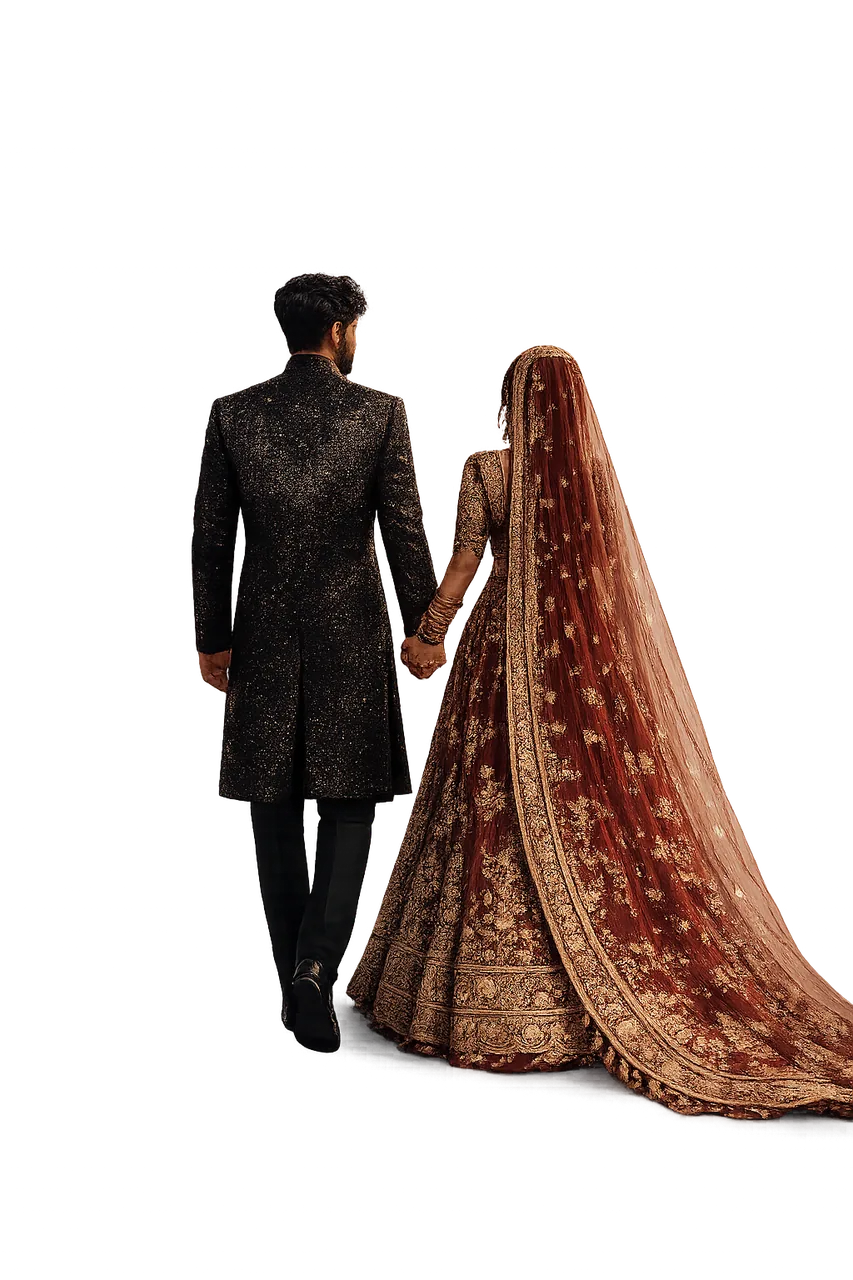
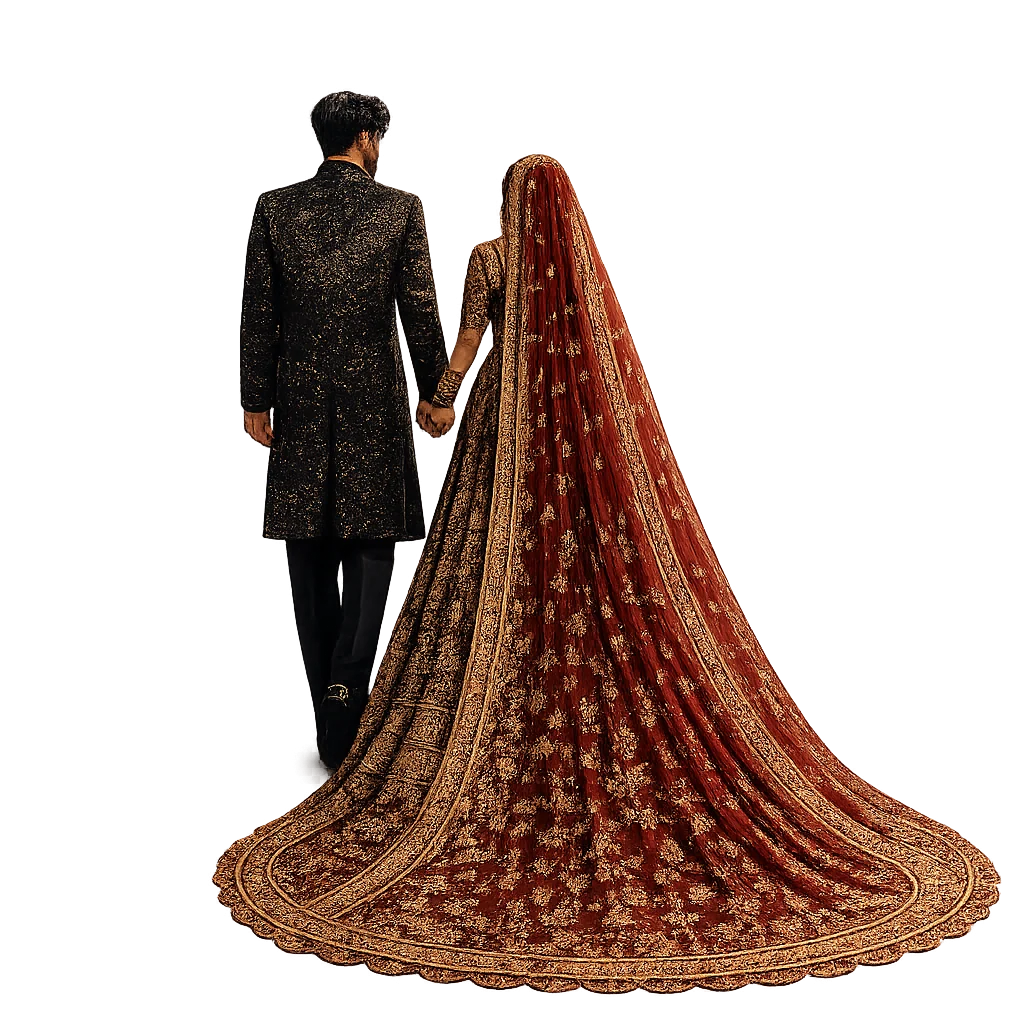
Update couple image (new transparent cut-out) and enlarge it
- New couple.webp (bride + trailing dupatta); desktop 20%->32%, mobile 34%->46%

diff --git a/components/PalaceScene.js b/components/PalaceScene.js
@@ -149,7 +149,7 @@ export default function PalaceScene() {
           <Layer src={`${SCENE}/lanterns-sky.webp`} z={2} f={20} order={2} float pos={{ left: '23%', top: '9%', width: '34%', transform: 'translateX(-50%)' }} />
           <Layer src={`${SCENE}/lanterns-sky.webp`} z={2} f={16} order={2} float pos={{ left: '50%', top: '3%', width: '42%', transform: 'translateX(-50%)' }} />
           <Layer src={`${SCENE}/lanterns-sky.webp`} z={2} f={13} order={2} float pos={{ left: '78%', top: '7%', width: '32%', transform: 'translateX(-50%)' }} />
-          <Layer src={`${SCENE}/couple.webp`} z={3} f={24} order={3} pos={{ left: '50%', bottom: '8%', width: '20%', transform: 'translateX(-50%)' }} alt="The couple before the palace" />
+          <Layer src={`${SCENE}/couple.webp`} z={3} f={24} order={3} pos={{ left: '50%', bottom: '6%', width: '32%', transform: 'translateX(-50%)' }} alt="The couple before the palace" />
           <Layer src={`${SCENE}/arch-wide.webp`} z={5} f={6} order={4} cover pos={{ inset: 0 }} />
           <Layer src={`${SCENE}/florals-wide.webp`} z={6} f={30} order={5} pos={{ left: '50%', bottom: '0', width: '100%', transform: 'translateX(-50%)' }} />
         </>
@@ -161,7 +161,7 @@ export default function PalaceScene() {
             <Layer src={`${SCENE}/palace-far.webp`}   z={1} f={10} order={1} pos={{ left: '50%', bottom: '12%', width: '132%', transform: 'translateX(-50%)' }} />
             <Layer src={`${SCENE}/palace.webp`}        z={2} f={16} order={2} pos={{ left: '50%', bottom: '8%',  width: '78%',  transform: 'translateX(-50%)' }} />
             <Layer src={`${SCENE}/lanterns-sky.webp`}  z={3} f={14} order={3} float pos={{ left: '50%', top: '-3%', width: '100%', transform: 'translateX(-50%)' }} />
-            <Layer src={`${SCENE}/couple.webp`}        z={4} f={24} order={4} pos={{ left: '50%', bottom: '7%', width: '34%', transform: 'translateX(-50%)' }} alt="The couple before the palace" />
+            <Layer src={`${SCENE}/couple.webp`}        z={4} f={24} order={4} pos={{ left: '50%', bottom: '6%', width: '46%', transform: 'translateX(-50%)' }} alt="The couple before the palace" />
             <Layer src={`${SCENE}/arch.webp`} z={5} f={8} order={5} cover pos={{ inset: 0 }} />
             <Layer src={`${SCENE}/lantern-hang.webp`} z={6} f={30} order={6} float pos={{ left: '19%', top: '-2%', width: '15%', transform: 'translateX(-50%)' }} />
             <Layer src={`${SCENE}/lantern-hang.webp`} z={6} f={34} order={6} float pos={{ left: '81%', top: '-2%', width: '13%', transform: 'translateX(-50%)' }} />